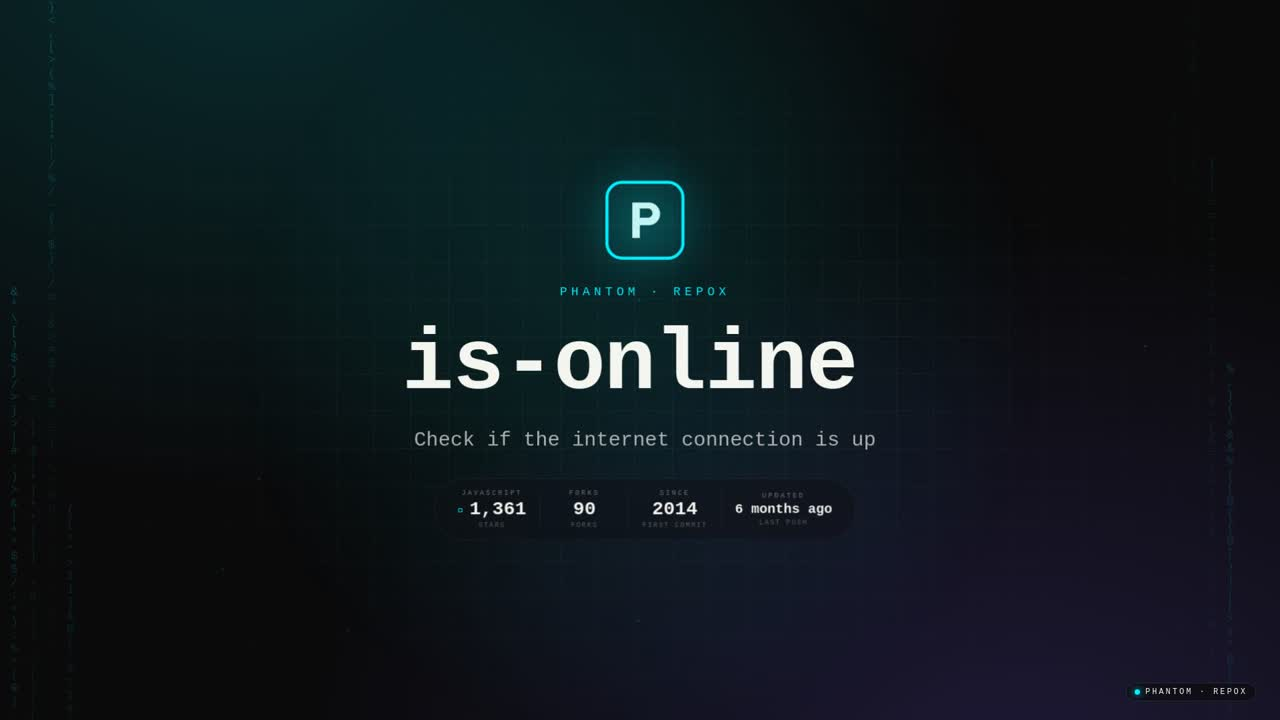
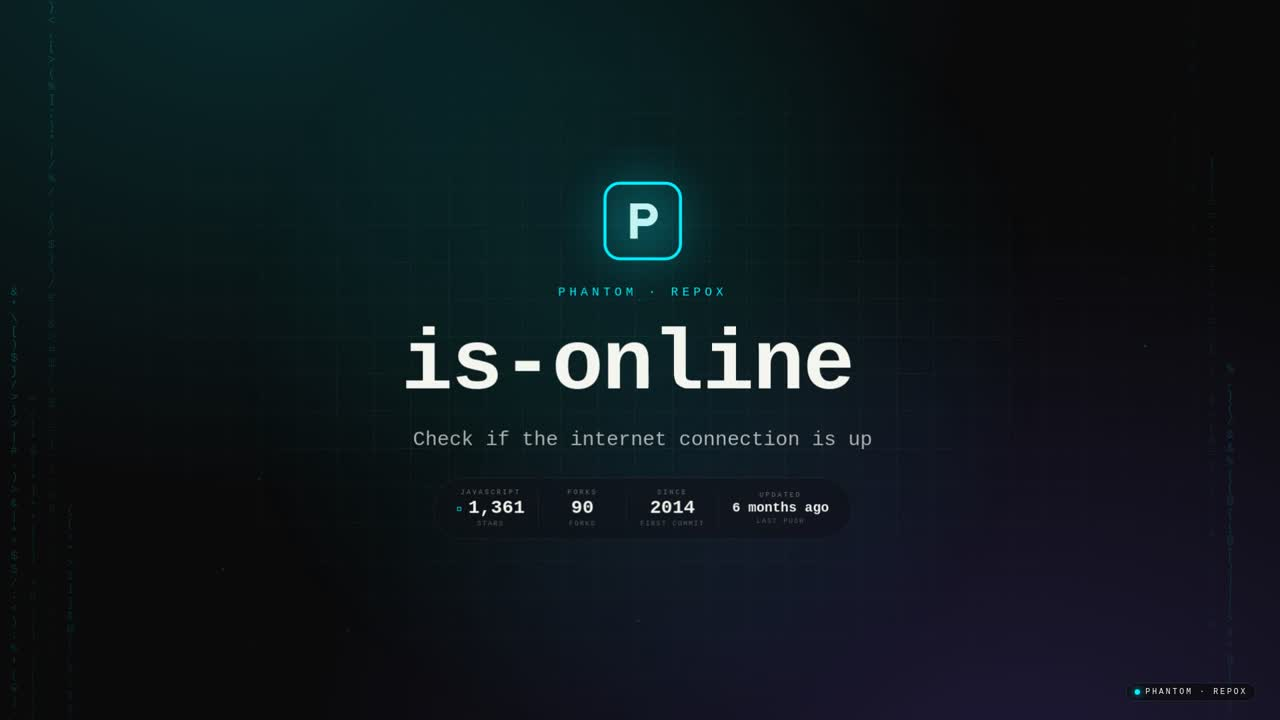
fix(architecture): dedup Claude's same-timestamp guesses; refresh demo to v7
v7 verification surfaced one remaining sync gap: `fetch-extras` and
`p-timeout` both landed on 16.0s because neither name appeared in the
narration alignment data. Both modules kept Claude's pre-existing
narration_start_seconds guess of 16.0, and the existing uniqueness
check only ran against ALIGNMENT-anchored modules (not Claude's
guesses). Two modules activating simultaneously is exactly the bug
the user complained about.

FIX:
After the alignment-anchoring pass in sync_visuals_to_alignment, do a
second sweep over UNANCHORED modules. For each one whose guessed
narration_start_seconds collides with an already-used value, push it
forward by 1.5 s and re-check. Modules with no alignment anchor are
deterministically spaced out instead of stacking.

Logs the dedup so it's visible in the worker:
  Dedup architecture: p-timeout 16.00s -> 17.50s (collision)

V7 RENDER VERIFICATION (job fc1f0808):

Tone (Issue 1):
  Zero harsh words across all 4 sections (lies/broken/wrong/etc).
  Hook: "navigator.onLine tells you there's a network interface with
   an IP address, not that the internet is reachable. This library
   closes that gap by racing parallel connectivity checks against
   real endpoints."
  Informational, not accusatory. Teaches what navigator.onLine returns,
  what gap it leaves, what this library does about it.

Informational density (Issue 3):
  Intro 31.7 s of dense content (was 24 s in v6). The narration
[…]

diff --git a/backend/services/voice_generator.py b/backend/services/voice_generator.py
@@ -722,6 +722,31 @@ def sync_visuals_to_alignment(
                 len(module_times), len(modules),
             )
 
+            # Second sweep: dedupe Claude's pre-existing narration_start_seconds
+            # guesses among the modules that DIDN'T get an alignment anchor.
+            # If two unanchored modules guessed the same timestamp, push each
+            # subsequent collision later by 1.5s so they reveal sequentially
+            # rather than simultaneously. The user reported this exact bug
+            # (`fetch-extras` and `p-timeout` both at 16.0s).
+            already_used = set(round(v, 2) for v in module_times.values())
+            for m in modules:
+                if (m.get("id") or "") in module_times:
+                    continue  # alignment-anchored, leave alone
+                guess = m.get("narration_start_seconds")
+                if guess is None:
+                    continue
+                bumped = round(float(guess), 2)
+                # While the bumped value collides, push it later by 1.5s.
+                while bumped in already_used:
+                    bumped = round(bumped + 1.5, 2)
+                if bumped != round(float(guess), 2):
+                    logger.info(
+                        "Dedup architecture: %s %.2fs -> %.2fs (collision)",
+                        m.get("label"), guess, bumped,
+                    )
+                m["narration_start_seconds"] = bumped
+                already_used.add(bumped)
+
         elif sid == "code_walkthrough":
             highlights = data.get("highlights") or []
             anchored = 0